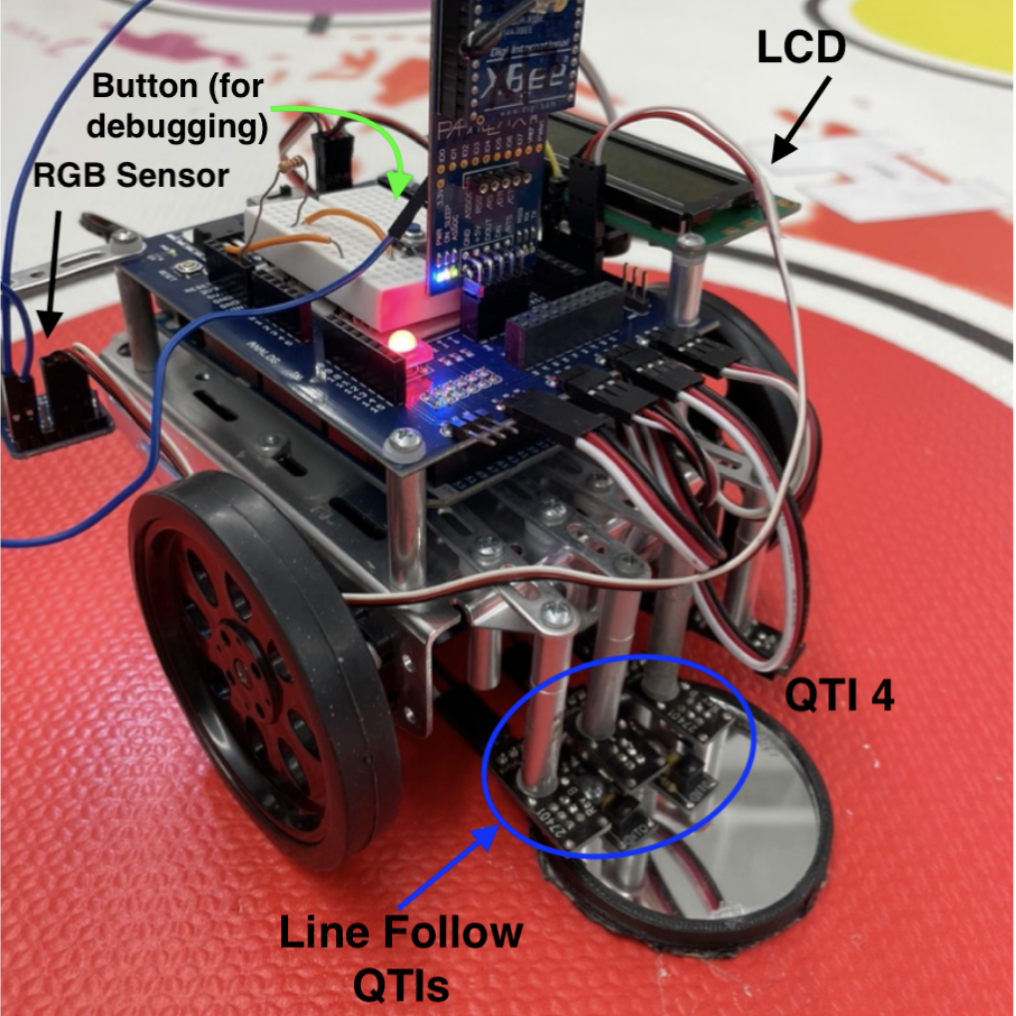
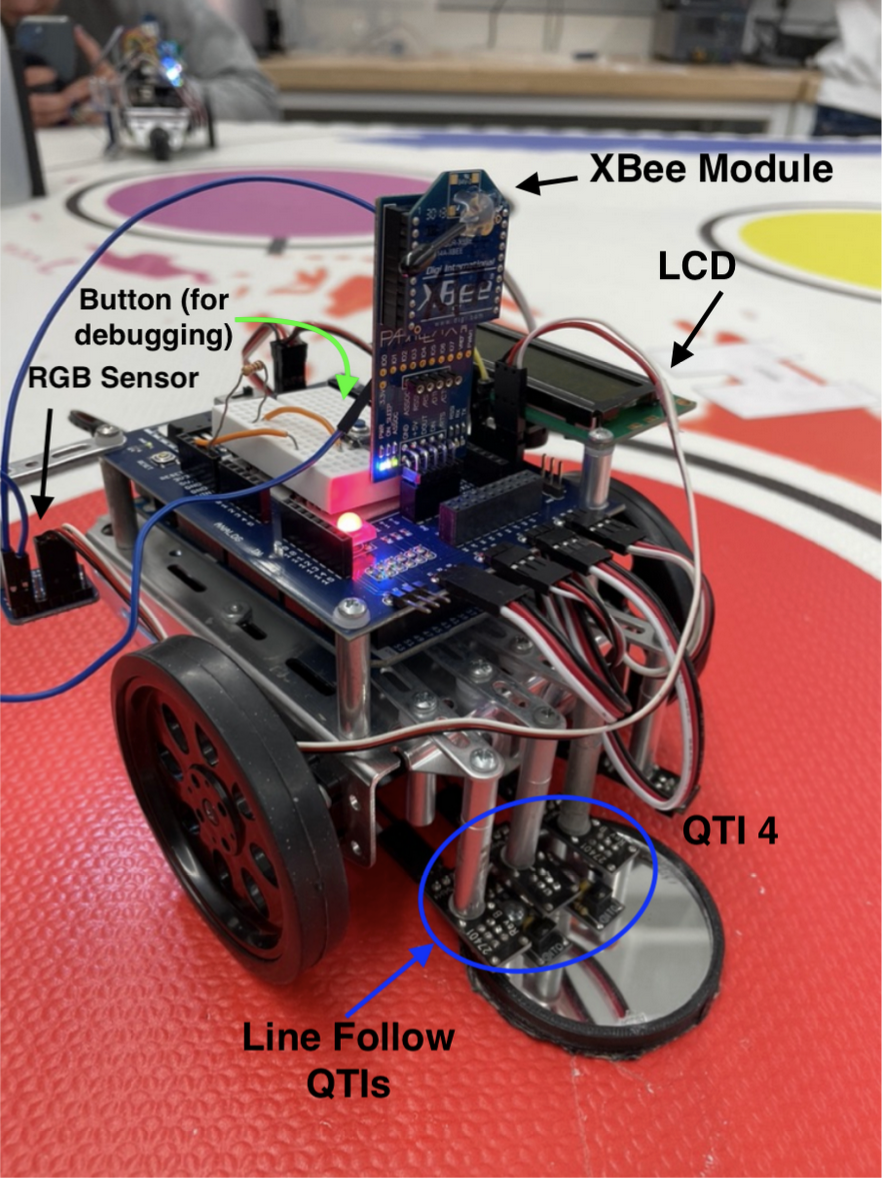
finished IDC project, integrated fontawesome, outlined projects

diff --git a/index.html b/index.html
@@ -17,7 +17,7 @@
   <!-- Materialize - Compiled and minified CSS-->
   <link rel="stylesheet" href="//cdnjs.cloudflare.com/ajax/libs/materialize/0.95.3/css/materialize.min.css" />
   <!-- Font Awesome Icon - CSS-->
-  <link rel="stylesheet" href="//maxcdn.bootstrapcdn.com/font-awesome/4.3.0/css/font-awesome.min.css" />
+  <script src="https://kit.fontawesome.com/7380fe9552.js" crossorigin="anonymous"></script>
   <!-- Custom Styles-->
   <link rel="stylesheet" href="/assets/css/style.css" />
   <title>Brandon Lu | Biomedical Engineer</title>
@@ -158,11 +158,11 @@
             <div class="col s12 m6 l4">
               <div class="card medium">
                 <div style="margin-bottom: 500px;">
-                <div class="card-image waves-effect waves-block waves-light">
-                  <a href="#" onclick="redirectIronMan();">
-                    <img alt="music streaming app" src="/assets/img/IronMan/cover.png" style="height: 100%; width: 100%" class="activator" />
-                  </a>
-                </div>
+                  <div class="card-image waves-effect waves-block waves-light">
+                    <a href="#" onclick="redirectIronMan();">
+                      <img alt="music streaming app" src="/assets/img/IronMan/cover.png" style="height: 100%; width: 100%" class="activator" />
+                    </a>
+                  </div>
                   <div class="card-content">
                     <a href="#" onclick="redirectIronMan();" target="_blank" data-position="top" data-tooltip='Click for more info' class="card-title activator teal-text hoverline">Iron Man<i class="mdi-navigation-more-vert right"></i></a>
                     <p>Myoelectric based robotic exoskeleton capable of enhancing and stablizing a user's arm</p>
@@ -170,21 +170,119 @@
                 </div>
               </div>
             </div>
-          <!-- Arduino Robot Project --> 
+          <!-- IDC Robot Project --> 
           <div class="col s12 m6 l4">
             <div class="card medium">
-              <div class="card-image waves-effect waves-block waves-light">
-                <a href="#" onclick="redirectIDC();">
-                  <img alt="music streaming app" src="/assets/img/IDC/cover.png" style="height: 100%; width: 100%" class="activator" />
-                </a>
-              </div>
-              <div class="card-content">
-                <a href="#" onclick="redirectIDC();" target="_blank" data-position="top" data-tooltip='Click for more info' class="card-title activator teal-text hoverline">Arduino Robot<i class="mdi-navigation-more-vert right"></i></a>
-                <p>Robot to follow shapes, identify colors, distinguish between metal and plastic, and communicate wirelessly</p>
-              </div>
+              <div style="margin-bottom: 500px;">
+                <div class="card-image waves-effect waves-block waves-light">
+                  <a href="#" onclick="redirectIDC();">
+                    <img alt="music streaming app" src="/assets/img/IDC/perspective.png" style="height: 100%; width: 100%" class="activator" />
+                  </a>
+                </div>
+                <div class="card-content">
+                  <a href="#" onclick="redirectIDC();" target="_blank" data-position="top" data-tooltip='Click for more info' class="card-title activator teal-text hoverline">IDC Robot<i class="mdi-navigation-more-vert right"></i></a>
+                  <p>Robot to follow shapes, identify colors, distinguish between metal and plastic, and communicate wirelessly</p>
+                </div>
               </div>
             </div>
           </div>
+          <!-- Vex Robotics Project --> 
+          <div class="col s12 m6 l4">
+            <div class="card medium">
+              <div style="margin-bottom: 500px;">
+                <div class="card-image waves-effect waves-block waves-light">
+                  <a href="#" onclick="redirectIDC();">
+                    <img alt="music streaming app" src="/assets/img/IDC/perspective.png" style="height: 100%; width: 100%" class="activator" />
+                  </a>
+                </div>
+                <div class="card-content">
+                  <a href="#" onclick="redirectIDC();" target="_blank" data-position="top" data-tooltip='Click for more info' class="card-title activator teal-text hoverline">VEX Robotics<i class="mdi-navigation-more-vert right"></i></a>
+                  <p>Robot to follow shapes, identify colors, distinguish between metal and plastic, and communicate wirelessly</p>
+                  </div>
+              </div>
+            </div>
+          </div>
+          <!-- Coffee Helper Project --> 
+          <div class="col s12 m6 l4">
+            <div class="card medium">
+              <div style="margin-bottom: 500px;">
+                <div class="card-image waves-effect waves-block waves-light">
+                  <a href="#" onclick="redirectIDC();">
+                    <img alt="music streaming app" src="/assets/img/IDC/perspective.png" style="height: 100%; width: 100%" class="activator" />
+                  </a>
+                </div>
+                <div class="card-content">
+                  <a href="#" onclick="redirectIDC();" target="_blank" data-position="top" data-tooltip='Click for more info' class="card-title activator teal-text hoverline">Coffee Helper<i class="mdi-navigation-more-vert right"></i></a>
+                  <p>Robot to follow shapes, identify colors, distinguish between metal and plastic, and communicate wirelessly</p>
+                  </div>
+              </div>
+            </div>
+          </div>
+          <!-- Convenience Projects --> 
+          <div class="col s12 m6 l4">
+            <div class="card medium">
+              <div style="margin-bottom: 500px;">
+                <div class="card-image waves-effect waves-block waves-light">
+                  <a href="#" onclick="redirectIDC();">
+                    <img alt="music streaming app" src="/assets/img/IDC/perspective.png" style="height: 100%; width: 100%" class="activator" />
+                  </a>
+                </div>
+                <div class="card-content">
+                  <a href="#" onclick="redirectIDC();" target="_blank" data-position="top" data-tooltip='Click for more info' class="card-title activator teal-text hoverline">Small Projects<i class="mdi-navigation-more-vert right"></i></a>
+                  <p>Robot to follow shapes, identify colors, distinguish between metal and plastic, and communicate wirelessly</p>
+                  </div>
+              </div>
+            </div>
+          </div>
+          <!-- Pacemaker Project --> 
+          <div class="col s12 m6 l4">
+            <div class="card medium">
+              <div style="margin-bottom: 500px;">
+                <div class="card-image waves-effect waves-block waves-light">
+                  <a href="#" onclick="redirectIDC();">
+                    <img alt="music streaming app" src="/assets/img/IDC/perspective.png" style="height: 100%; width: 100%" class="activator" />
+                  </a>
+                </div>
+                <div class="card-content">
+                  <a href="#" onclick="redirectIDC();" target="_blank" data-position="top" data-tooltip='Click for more info' class="card-title activator teal-text hoverline">Cardiac Pacemaker<i class="mdi-navigation-more-vert right"></i></a>
+                  <p>Robot to follow shapes, identify colors, distinguish between metal and plastic, and communicate wirelessly</p>
+                </div>
+              </div>
+            </div>
+          </div>
+          <!-- Class Project --> 
+          <div class="col s12 m6 l4">
+            <div class="card medium">
+              <div style="margin-bottom: 500px;">
+                <div class="card-image waves-effect waves-block waves-light">
+                  <a href="#" onclick="redirectIDC();">
+                    <img alt="music streaming app" src="/assets/img/IDC/perspective.png" style="height: 100%; width: 100%" class="activator" />
+                  </a>
+                </div>
+                <div class="card-content">
+                  <a href="#" onclick="redirectIDC();" target="_blank" data-position="top" data-tooltip='Click for more info' class="card-title activator teal-text hoverline">Misc. Class Projects<i class="mdi-navigation-more-vert right"></i></a>
+                  <p>Robot to follow shapes, identify colors, distinguish between metal and plastic, and communicate wirelessly</p>
+                </div>
+              </div>
+            </div>
+          </div>
+          <!-- MCM Project --> 
+          <div class="col s12 m6 l4">
+            <div class="card medium">
+              <div style="margin-bottom: 500px;">
+                <div class="card-image waves-effect waves-block waves-light">
+                  <a href="#" onclick="redirectIDC();">
+                    <img alt="music streaming app" src="/assets/img/IDC/perspective.png" style="height: 100%; width: 100%" class="activator" />
+                  </a>
+                </div>
+                <div class="card-content">
+                  <a href="#" onclick="redirectIDC();" target="_blank" data-position="top" data-tooltip='Click for more info' class="card-title activator teal-text hoverline">MCM Competition<i class="mdi-navigation-more-vert right"></i></a>
+                  <p>Robot to follow shapes, identify colors, distinguish between metal and plastic, and communicate wirelessly</p>
+                </div>
+              </div>
+            </div>
+          </div>
+
           <!-- ************* -->
         </div>
       </div>
@@ -231,7 +329,7 @@
         <p>
           <a aria-label="View Brandon on GitLab" href="https://gitlab.oit.duke.edu/bjl40" target="_blank"
             data-position="top" data-tooltip="View Brandon on GitLab"
-            class="btn-floating btn-large waves-effect waves-light blue-grey tooltipped"><i class="fab fa-gitlab"></i><a
+            class="btn-floating btn-large waves-effect waves-light blue-grey tooltipped"><i class="fa fa-gitlab" aria-hidden="true"></i><a
               aria-label="Brandon on GitLab" href="https://gitlab.oit.duke.edu/bjl40" class="hoverline"
               target="_blank">https://gitlab.oit.duke.edu/bjl40</a></a>
         </p>

diff --git a/Projects/IDC.html b/Projects/IDC.html
@@ -16,7 +16,7 @@
         <!-- Materialize - Compiled and minified CSS-->
         <link rel="stylesheet" href="//cdnjs.cloudflare.com/ajax/libs/materialize/0.95.3/css/materialize.min.css" />
         <!-- Font Awesome Icon - CSS-->
-        <link rel="stylesheet" href="//maxcdn.bootstrapcdn.com/font-awesome/4.3.0/css/font-awesome.min.css" />
+        <script src="https://kit.fontawesome.com/7380fe9552.js" crossorigin="anonymous"></script>
         <!-- Custom Styles-->
         <link rel="stylesheet" href="/assets/css/style.css" />
         <title>Brandon Lu | Biomedical Engineer</title>
@@ -115,8 +115,8 @@
             <b>[January 2022 - May 2022]</b>
           </p>     
           <p>
-            Robot using Arduino Mega, Servo motor, and sensors to follow shapes, 
-            identify colors, distinguish between reflective and matte surfaces, and communicate wirelessly with other robots
+            Built with Miles Yang, this mini-robot utilized the Arduino Mega, Servo motors, and various sensors to follow shapes. The robot is capable of line following, 
+            identifying colors, distinguishing between reflective and matte surfaces, and communicating wirelessly with other robots
           </p>
           <p>
             <ul>
@@ -125,8 +125,8 @@
           </p>
         </div>
         <div class="card-action icon-mover">
-          <a aria-label="Visit the GitHub repo for the project" href="https://github.com/dcunhrya/ECE-Robot" target="_blank" data-position="top" data-tooltip="View GitHub" class="btn-floating btn-large waves-effect waves-light blue-grey tooltipped">
-            <i class="fa fa-github"></i>
+          <a aria-label="Visit the GitLab repo for the project" href="https://gitlab.oit.duke.edu/bjl40/idc-challenge" target="_blank" data-position="top" data-tooltip="View GitLab" class="btn-floating btn-large waves-effect waves-light blue-grey tooltipped">
+            <i class="fab fa-gitlab"></i>
           </a>
         </div>
       </section>
@@ -144,31 +144,23 @@
                   <ul>
                     <p>
                     <ul>
-                        The engineering design process was utilized in the creation of this robot. 
-                        The robot was added upon every week starting with robot movement, then color identification, then object identification, and finally communication. 
-                        All screening matrices, scoring matrices, project timelines, and initial prototyping ideas are shown in the following reports. 
-                        All the code as well as pictures of the robot are shown with weekly status update slides are also provided.
+                      This robot was made with an emphasis on learning good design process practices. As such, a Gantt Chart was made to keep track of the project timeline,
+                      and regular updates are included as well. In the following reports, you'll find screening matrices, scoring matrices, cost breakdowns, and results analyses.
                     </ul>
                     <br>
                     <ul>
-                        <li><a href="https://docs.google.com/document/d/1QMPt-8MwlLYzZUURz5DeZPpSPzJxlYWamq5Nilkg0tY/edit?usp=sharing" target="_blank">Conceptual Design Report</a></li>
                         <li><a href="https://docs.google.com/document/d/1wnxZ9CUkZics8-vXIs1ceKyRzhzynUFvO8jz1Uus3Ds/edit?usp=sharing" target="_blank">Final Design Report</a></li>
+                        <li><a href="https://docs.google.com/document/d/1QMPt-8MwlLYzZUURz5DeZPpSPzJxlYWamq5Nilkg0tY/edit?usp=sharing" target="_blank">Conceptual Design Report</a></li>
                         <li><a href="https://docs.google.com/presentation/d/1xmwuUh5KIEQCBNSkbRSH8ViC7QjgtXKE1JlVj8YQQN0/edit?usp=sharing" target="_blank">Update 1</a></li>
                         <li><a href="https://docs.google.com/presentation/d/1d0OQbLBREfBB4ZrTJneOaiClDZ0CBl2REmQ94bkjj60/edit?usp=sharing" target="_blank">Update 2</a></li>
                         <li><a href="https://docs.google.com/presentation/d/1SDCLqFow3xIOrpbBp1DTi9bkV1FE240R1EHP_tANNGU/edit?usp=sharing" target="_blank">Update 3</a></li>
-                        <li><a href="https://docs.google.com/presentation/d/1RXaVWBnbdQvwr5lUn-dlrwziYDfqGsQXaLav342iiG0/edit?usp=sharing" target="_blank">Update 3</a></li>
+                        <li><a href="https://docs.google.com/presentation/d/1RXaVWBnbdQvwr5lUn-dlrwziYDfqGsQXaLav342iiG0/edit?usp=sharing" target="_blank">Update 4</a></li>
                     </ul>
                     </p>
                   </ul>
                 </div>
               </div>
             </div>
-          </div>
-
-          <div class="col s12 m6 l6">
-                <div class="video-container">
-                  <iframe src="https://www.youtube.com/embed/7Mz0ewGIhOE" frameborder="0" allowfullscreen></iframe>
-                </div>          
           </div>
 
         </div>
@@ -182,11 +174,11 @@
           </p>
           <div class="gallery-container">
             <div class="gallery">
-              <img src="assets/img/finalrobot.jpeg">
-              <img src="assets/img/QTI.png">
-              <img src="assets/img/RGB.png">
-              <img src="assets/img/whiskerwire.png">
-              <img src="assets/img/LCD.png">
+              <img src="/assets/img/IDC/cover.png">
+              <img src="/assets/img/IDC/RGB.png">
+              <img src="/assets/img/IDC/QTI.png">
+              <img src="/assets/img/IDC/Top.png">
+              <img src="/assets/img/IDC/LCD.png">
             </div>
             <p style="margin-bottom: 70px;"></p>
           </div>
@@ -199,9 +191,11 @@
                     <span class="card-title"><a target="_blank" class="teal-text hoverline"><b>QTI Sensor</b></a></span>
                   </p>
                   <p>
-                    3 QTI sensors were integrated to the robot in order to be able to follow black lines. 
-                    The circuit schematic is shown and the sensor was connected using male-female wires. 
-                    Code for this sensor consisted of function that would run if each QTI sensor got a reading equivalent to black or white
+                    4 QTI sensors were integrated to the robot, and a traditional line follow program was tuned. The line 
+                    follow code is programmed to accomodating sharp turns, pause at intersections of lines,
+                    and search for nearby lines if lost. In the image gallery you'll find the circuit
+                    schematic for the line follow program. In addition, a QTI sensor was used to detect 
+                    the presence of a shiny mirror surface.
                 </p>
                 </div>
               </div>
@@ -213,8 +207,7 @@
                     <span class="card-title"><a target="_blank" class="teal-text hoverline"><b>RGB Sensor</b></a></span>
                   </p>
                   <p>
-                    An RGB sensor was used to identify what color the robot was on. 
-                    The sensor was mounted on the side of the robot. 
+                    An RGB sensor mounted to the side of the robot was used to identify what color the robot was on. 
                     Code for the RGB sensor consisted of if statements to flash the RGB LED a certain color 
                     based on a color ratio from the sensor that was experimentally determined
                   </p>
@@ -227,12 +220,12 @@
               <div class="card">
                 <div class="card-content">
                   <p>
-                    <span class="card-title"><a target="_blank" class="teal-text hoverline"><b>Whisker Wires</b></a></span>
+                    <span class="card-title"><a target="_blank" class="teal-text hoverline"><b>Bluetooth Module</b></a></span>
                   </p>
                   <p>
-                    Whisker wires were used to differentiate between metal and plastic. 
-                    One wire was connected to 5V and the other wire was connected to an Arduino input pin. 
-                    Since metal is conductive and plastic isn't, touching a metal object would complete the circuit and sense a metal object.
+                    An X-Bee module was utilized to enable bluetooth communication between nearby robots.
+                    Both sending and receiving data was implemented across the bluetooth protocol, and used
+                    to evaluate the status of nearby robots. 
                   </p>
                 </div>
               </div>
@@ -256,10 +249,10 @@
       </section>
 
     </main>
-    <script src="assets/vendor/typed.js/typed.min.js"></script>
+    <script src="/assets/vendor/typed.js/typed.min.js"></script>
     <script type="text/javascript">
       var typed = new Typed('.typing',{
-        strings: ["Arduino Robot"],
+        strings: ["IDC Robot"],
         loop: true,
         typeSpeed: 80,
         backSpeed: 40

diff --git a/assets/css/style.css b/assets/css/style.css
@@ -613,9 +613,9 @@ a.hoverline:hover {
 }
 
 .gallery img {
-  width: 400px;
-  height: 300px;
-  margin-right: 10px;
+  width: auto; /* or a specific width */
+  height: 300px; /* maintain aspect ratio */
+  object-fit: contain;
 }
 
 .image-container1 {
